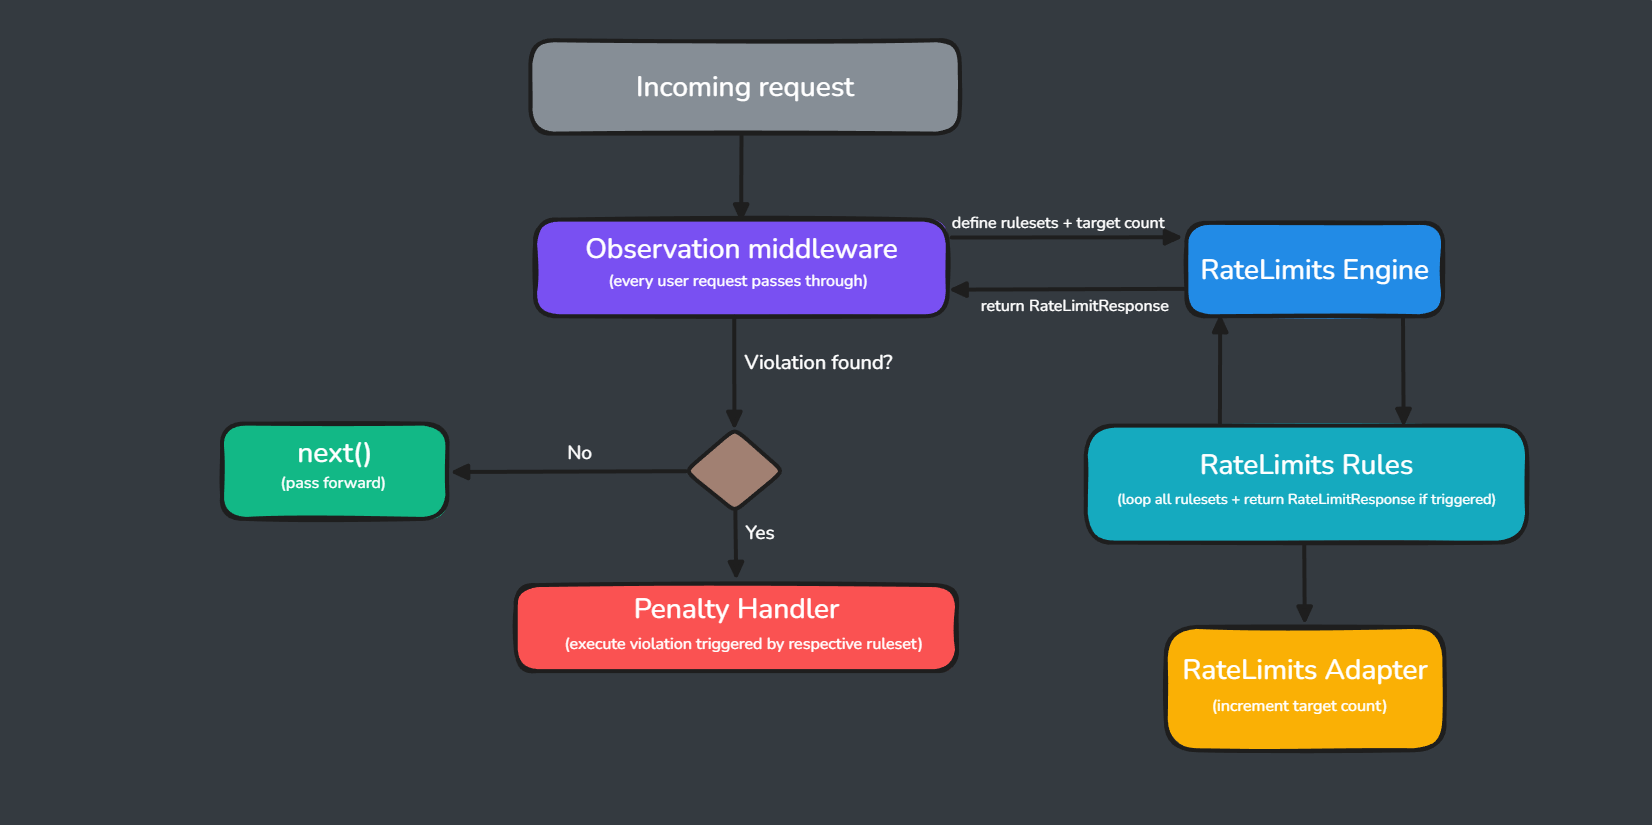
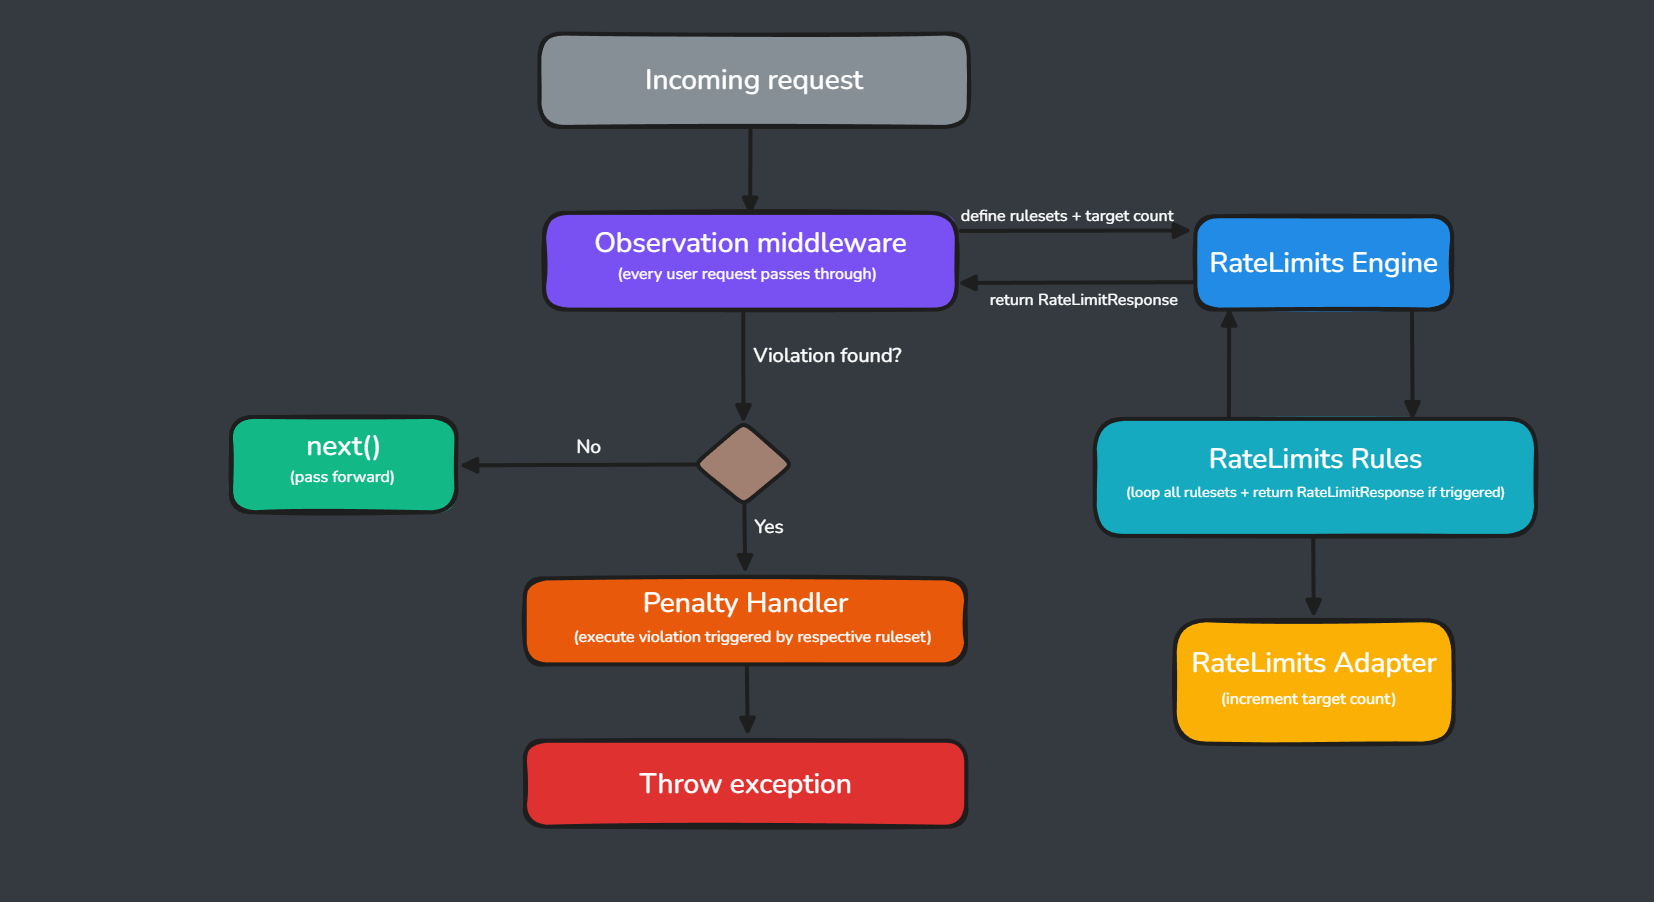
docs: update documentation

Changed region(s): [[0.1235, 0.0303, 0.9262, 0.9394]]

diff --git a/README.md b/README.md
@@ -92,16 +92,12 @@ User can attach files for any support/bug ticket to provide further information 
 
 ### $\textsf{\color{teal}Observation}$
 
-In terms of rate-limiting, penalties and ready-to-extend functionality, the observation middleware takes care of monitoring incoming requests by users and clients (see following workflow or `Figure 2`):
-<br>=> [middleware](./backend/src/middleware/observe.middleware.ts) // used for every user-request
-<br>=> [rate-limits engine](./backend/src/middleware/engines/rate-limits.engine.middleware.ts) // executes checks for ruleset violations
-<br>=> [rate-limits rules](./backend/src/middleware/rules/rate-limits.rule.middleware.ts) // rulesets
-<br>=> [rate-limits adapter](./backend/src/middleware/adapter/rate-limits.adapter.middleware.ts) // handles update/create of ruleset-check history
-<br>=> [penalty handler](./backend/src/middleware/handler/penalty.handler.middleware.ts) // set violations (status/flag change) if triggered 
-<br>=> middleware // throw exception or pass forward
+In terms of rate-limiting, penalties and ready-to-extend functionality, the observation middleware takes care of monitoring incoming requests by users and clients (see following workflow or `Figure 2`).<br>
+
+A certain set of rules checks for incoming requests on a total number for the day and within a certain time range. Before the engine returns found violations, the adapter calls for an increment of the daily rate-limit count. Violations are handled by the penalty handler (setting flags/status) and the workflow ends with either throwing an exception or calling next() to pass to the next middleware.
 <div align="center">
     <img src="assets/img/observe_middleware_diagram.png" alt="&nbsp;observe middleware diagram">
-    Figure 2 - observation middleware digram, v1.0.0-beta.2
+    Figure 2 - observation middleware workflow, v1.0.0-beta.2
 </div>
 
 
